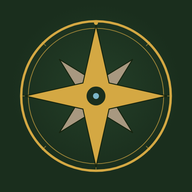
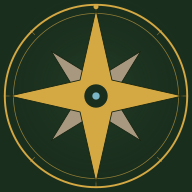
Canvia la icona de l'app pel logotip de Rutes Planenques i afegeix crèdits
Substitueix la brúixola genèrica (icones PWA i capçalera) per l'emblema
oficial de Rutes Planenques. Afegeix una línia de crèdits a la pestanya
de medalles (iniciativa de Francesc Ferré; impressions 3D de Joan Balañà
i Roger Salcedo).

Changed region(s): [[0.0, 0.0, 1.0, 1.0], [0.4375, 0.4375, 0.5625, 0.5625]]

diff --git a/index.html b/index.html
@@ -3026,7 +3026,7 @@ header {
   position: sticky; top: 0; z-index: 10;
   backdrop-filter: blur(8px);
 }
-.header-logo { font-size: 1.8rem; }
+.header-logo { width: 34px; height: 34px; border-radius: 50%; flex-shrink: 0; }
 .header-titol { font-family: 'Fraunces', serif; font-size: 1.2rem; font-weight: 700; flex: 1; }
 .header-titol span { display: block; font-size: 0.7rem; font-weight: 400; color: var(--pedra); font-style: italic; font-family: 'Space Grotesk', sans-serif; }
 #usuari-foto { width: 36px; height: 36px; border-radius: 50%; border: 2px solid var(--bosc-clar); cursor: pointer; }
@@ -3172,6 +3172,7 @@ header {
 
 /* Medalles */
 .seccio-label { font-size: 0.68rem; text-transform: uppercase; letter-spacing: 0.1em; color: var(--pedra); padding: 0 1.2rem; margin-bottom: 0.6rem; }
+.credits-footer { font-size: 0.7rem; color: var(--pedra); opacity: 0.6; text-align: center; padding: 1.5rem 1.2rem 1rem; line-height: 1.6; }
 .carrusel-hint {
   font-size: 0.72rem; color: var(--or); opacity: 0.75;
   padding: 0 1.2rem; margin-bottom: 0.5rem;
@@ -3945,7 +3946,7 @@ header {
 <!-- ══ PANTALLA JOC ══ -->
 <div id="pantalla-joc">
   <header>
-    <span class="header-logo">🧭</span>
+    <img class="header-logo" src="icons/icon-192.png" alt="Rutes Planenques">
     <div class="header-titol">
       Rutes Planenques
       <span>Rutes · Col·lecció · Ranking</span>
@@ -3988,6 +3989,8 @@ header {
     <p class="carrusel-hint">‹ Llisca per veure-les totes ›</p>
     <div class="medalles-grid" id="medalles-grid" onscroll="actualitzarPunts()"></div>
     <div class="carrusel-punts" id="carrusel-punts"></div>
+
+    <p class="credits-footer">Una iniciativa de Francesc Ferré<br>Impressions 3D: Joan Balañà i Roger Salcedo</p>
 
     <!-- Admin -->
     <button id="admin-btn" onclick="mostrarAdmin()">⚙ Panell d'admin — QRs i gestió</button>
